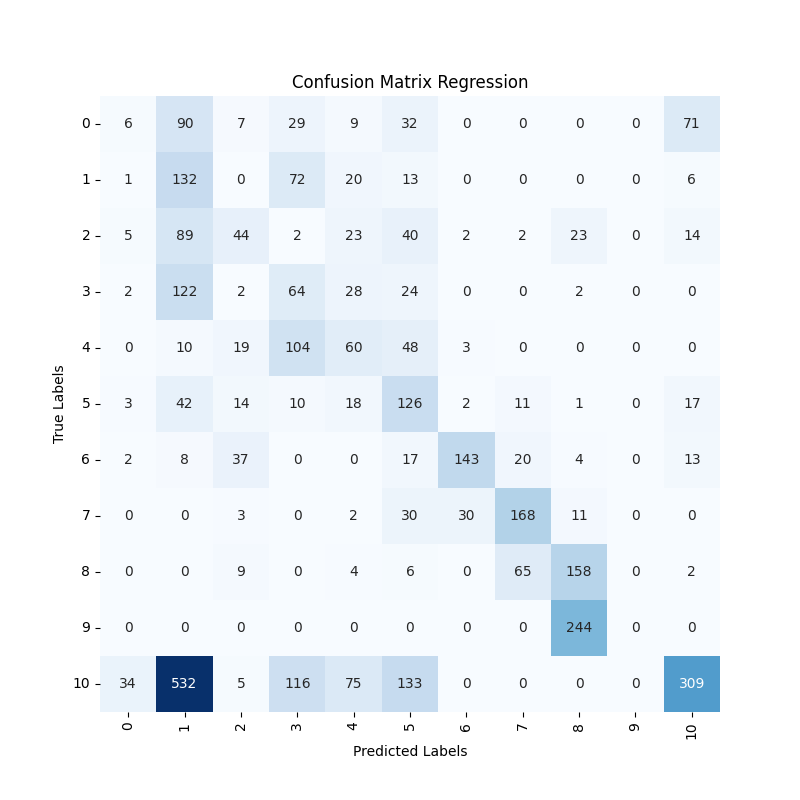
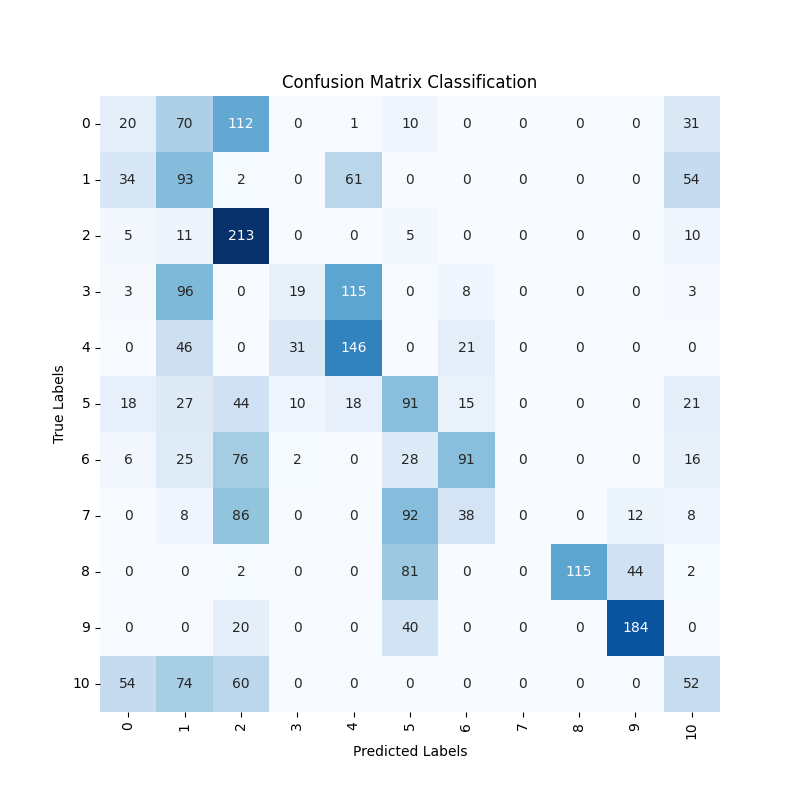
commit from ccv

diff --git a/scripts/network.py b/scripts/network.py
@@ -16,15 +16,15 @@ class JointNetwork(nn.Module):
         if classify:
             self.network = nn.Sequential(
                nn.Flatten(),
-                nn.Linear(input_dim, 8),
+                nn.Linear(input_dim, 32),
                 nn.ReLU(), 
-                nn.Dropout(0.3),
+                nn.Dropout(0.5),
 
-                nn.Linear(8,16),
+                nn.Linear(32,32),
                 nn.ReLU(),
-                nn.Dropout(0.3),
+                nn.Dropout(0.5),
 
-                nn.Linear(16, output_dim),
+                nn.Linear(32, output_dim),
                 nn.Softmax(dim=1)
             )
         else:
@@ -75,7 +75,7 @@ class LitRobot(L.LightningModule):
         # self.device = device   
 
         self.classify = classify
-        self.learning_rate = 3e-3
+        self.learning_rate = 4e-3
 
         markers_pos = np.loadtxt(markers_path, delimiter=',')
         self.marker_positions = {f"{i}": pos for i, pos in enumerate(markers_pos)}

diff --git a/scripts/train.py b/scripts/train.py
@@ -21,7 +21,7 @@ def main(num_classes, markers_path, classify, seq, robot_type):
     else:
         tb_logger = TensorBoardLogger(f"../gouger_logs/{robot_type}", name = "regression")
 
-    data_module = SpotDataModule(classify, seq, robot_type = robot_type, batch_size=32)
+    data_module = SpotDataModule(classify, seq, robot_type = robot_type, batch_size=16)
     if classify:
         output_dim = num_classes
     else:
